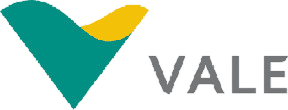
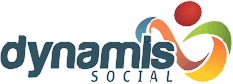
Adicionando imagem da Dynamis

diff --git a/participantes.html b/participantes.html
@@ -1085,9 +1085,9 @@
                     </div>
 
                     <div class="col-lg-2 col-md-2 d-flex flex-column align-self-end">
-                        <small class="mb-0">Patrocinadores:</small>
-                        <img src="assets/img/patrocinadores/patrocinadores-1.png" alt="" class="img-fluid mb-4"
-                            width="50px" height="auto">
+                        <small class="mb-0">Apoio:</small>
+                        <img src="assets/img/patrocinadores/patrocinadores-1.png" class="img-fluid mb-2" width="100px" height="auto">
+                        <img src="assets/img/patrocinadores/patrocinadores-2.png" class="img-fluid mb-4" width="80px" height="auto">
                     </div>
 
 

diff --git a/contatos.html b/contatos.html
@@ -186,9 +186,9 @@
                     </div>
 
                     <div class="col-lg-2 col-md-2 d-flex flex-column align-self-end">
-                        <small class="mb-0">Patrocinadores:</small>
-                        <img src="assets/img/patrocinadores/patrocinadores-1.png" alt="" class="img-fluid mb-4"
-                            width="50px" height="auto">
+                        <small class="mb-0">Apoio:</small>
+                        <img src="assets/img/patrocinadores/patrocinadores-1.png" class="img-fluid mb-2" width="100px" height="auto">
+                        <img src="assets/img/patrocinadores/patrocinadores-2.png" class="img-fluid mb-4" width="80px" height="auto">
                     </div>
 
 

diff --git a/cursos.html b/cursos.html
@@ -200,9 +200,9 @@
                     </div>
 
                     <div class="col-lg-2 col-md-2 d-flex flex-column align-self-end">
-                        <small class="mb-0">Patrocinadores:</small>
-                        <img src="assets/img/patrocinadores/patrocinadores-1.png" alt="" class="img-fluid mb-4"
-                            width="50px" height="auto">
+                        <small class="mb-0">Apoio:</small>
+                        <img src="assets/img/patrocinadores/patrocinadores-1.png" class="img-fluid mb-2" width="100px" height="auto">
+                        <img src="assets/img/patrocinadores/patrocinadores-2.png" class="img-fluid mb-4" width="80px" height="auto">
                     </div>
 
 

diff --git a/feiras.html b/feiras.html
@@ -549,9 +549,9 @@
                     </div>
 
                     <div class="col-lg-2 col-md-2 d-flex flex-column align-self-end">
-                        <small class="mb-0">Patrocinadores:</small>
-                        <img src="assets/img/patrocinadores/patrocinadores-1.png" alt="" class="img-fluid mb-4"
-                            width="50px" height="auto">
+                        <small class="mb-0">Apoio:</small>
+                        <img src="assets/img/patrocinadores/patrocinadores-1.png" class="img-fluid mb-2" width="100px" height="auto">
+                        <img src="assets/img/patrocinadores/patrocinadores-2.png" class="img-fluid mb-4" width="80px" height="auto">
                     </div>
 
 

diff --git a/servicos.html b/servicos.html
@@ -215,9 +215,9 @@
                     </div>
 
                     <div class="col-lg-2 col-md-2 d-flex flex-column align-self-end">
-                        <small class="mb-0">Patrocinadores:</small>
-                        <img src="assets/img/patrocinadores/patrocinadores-1.png" alt="" class="img-fluid mb-4"
-                            width="50px" height="auto">
+                        <small class="mb-0">Apoio:</small>
+                        <img src="assets/img/patrocinadores/patrocinadores-1.png" class="img-fluid mb-2" width="100px" height="auto">
+                        <img src="assets/img/patrocinadores/patrocinadores-2.png" class="img-fluid mb-4" width="80px" height="auto">
                     </div>
 
 

diff --git a/index.html b/index.html
@@ -244,9 +244,9 @@
           </div>
 
           <div class="col-lg-2 col-md-2 d-flex flex-column align-self-end">
-            <small class="mb-0">Patrocinadores:</small>
-            <img src="assets/img/patrocinadores/patrocinadores-1.png" alt="" class="img-fluid mb-4" width="50px"
-              height="auto">
+            <small class="mb-0">Apoio:</small>
+            <img src="assets/img/patrocinadores/patrocinadores-1.png" class="img-fluid mb-2" width="100px" height="auto">
+            <img src="assets/img/patrocinadores/patrocinadores-2.png" class="img-fluid mb-4" width="80px" height="auto">
           </div>
 
 
